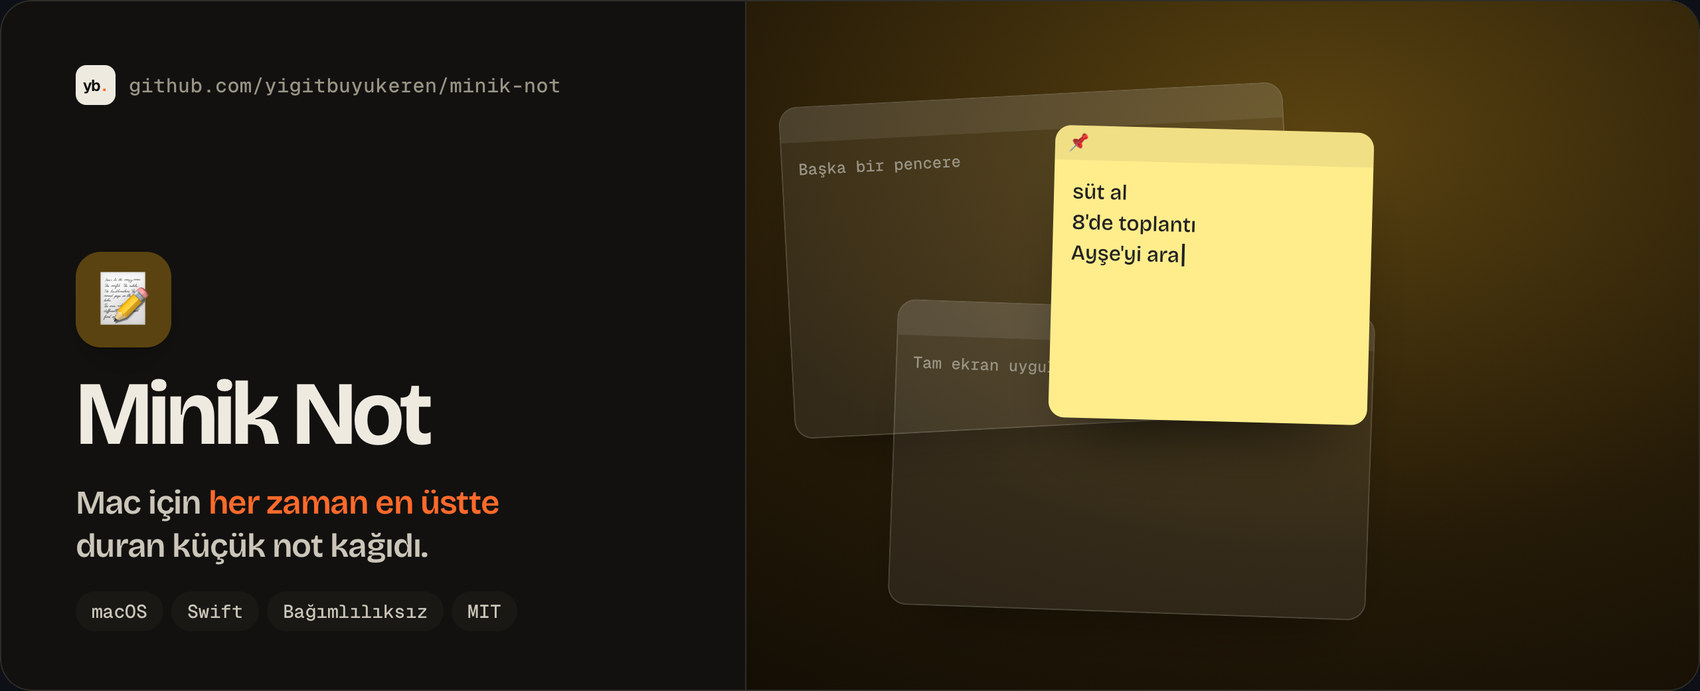
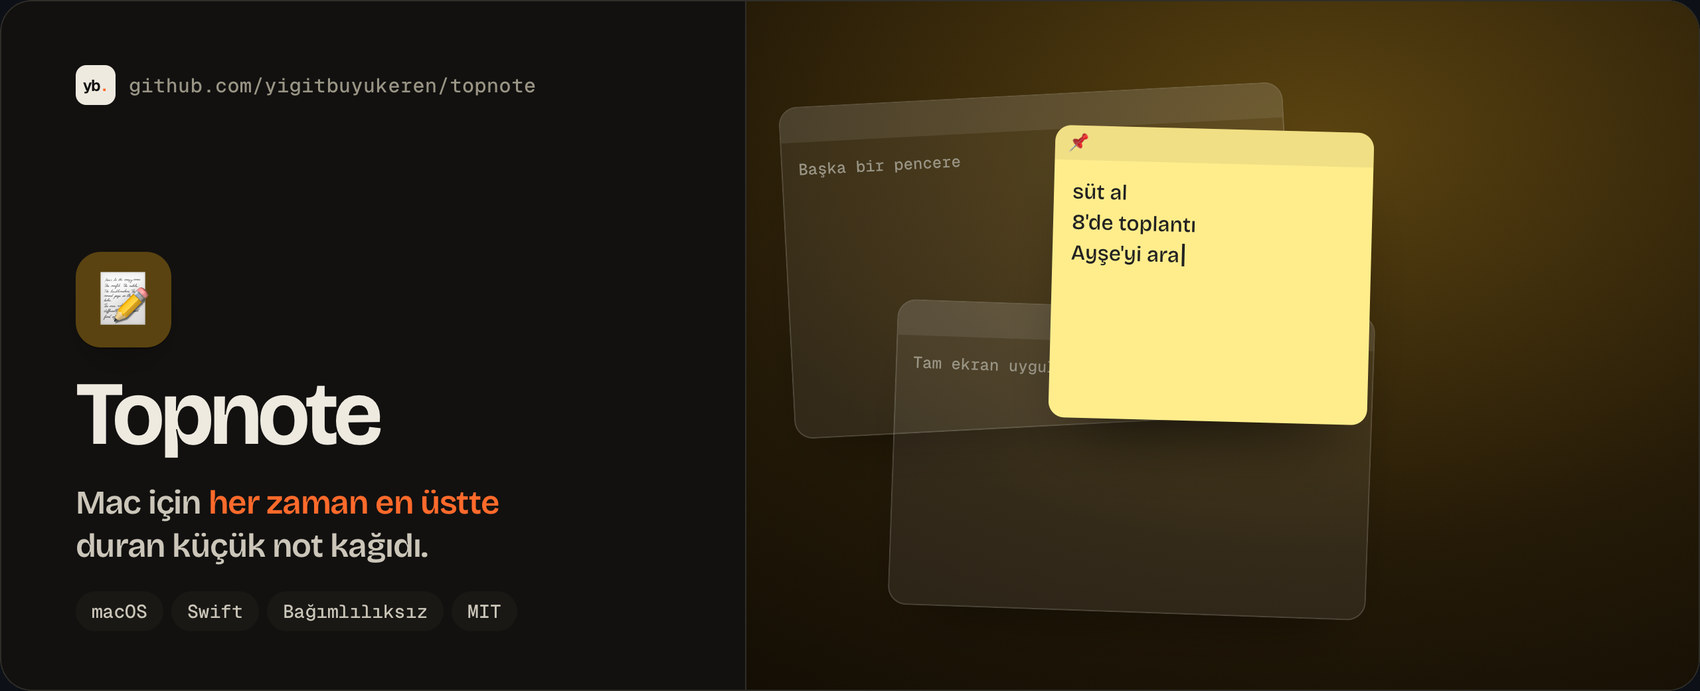
Projeyi Topnote olarak yeniden adlandır

Changed region(s): [[0.0312, 0.547, 0.2494, 0.6686], [0.2494, 0.1216, 0.3429, 0.152]]

diff --git a/Sources/Topnote/AppDelegate.swift b/Sources/Topnote/AppDelegate.swift
@@ -1,7 +1,7 @@
 import AppKit
 import Carbon.HIToolbox
 import Combine
-import MinikNotCore
+import TopnoteCore
 import ServiceManagement
 import SwiftUI
 
@@ -104,7 +104,7 @@ final class AppDelegate: NSObject, NSApplicationDelegate, NSMenuDelegate {
     private func setUpStatusItem() {
         statusItem = NSStatusBar.system.statusItem(withLength: NSStatusItem.squareLength)
         if let button = statusItem.button {
-            button.image = NSImage(systemSymbolName: "note.text", accessibilityDescription: "Minik Not")
+            button.image = NSImage(systemSymbolName: "note.text", accessibilityDescription: "Topnote")
         }
         let menu = NSMenu()
         menu.delegate = self
@@ -162,9 +162,9 @@ final class AppDelegate: NSObject, NSApplicationDelegate, NSMenuDelegate {
         let main = NSMenu()
 
         let app = NSMenu()
-        app.addItem(item("Minik Not Hakkında", #selector(NSApplication.orderFrontStandardAboutPanel(_:)), target: NSApp))
+        app.addItem(item("Topnote Hakkında", #selector(NSApplication.orderFrontStandardAboutPanel(_:)), target: NSApp))
         app.addItem(.separator())
-        app.addItem(item("Minik Not'u Gizle", #selector(NSApplication.hide(_:)), key: "h", target: NSApp))
+        app.addItem(item("Topnote'u Gizle", #selector(NSApplication.hide(_:)), key: "h", target: NSApp))
         app.addItem(item("Çıkış", #selector(NSApplication.terminate(_:)), key: "q", target: NSApp))
         main.addItem(submenuItem(app))
 

diff --git a/Sources/TopnoteCore/NoteStorage.swift b/Sources/TopnoteCore/NoteStorage.swift
@@ -1,6 +1,6 @@
 import Foundation
 
-/// Notu `~/Library/Application Support/Minik Not/not.json` dosyasında tutar.
+/// Notu `~/Library/Application Support/Topnote/not.json` dosyasında tutar.
 public struct NoteStorage {
     public let fileURL: URL
 
@@ -10,7 +10,7 @@ public struct NoteStorage {
 
     public static var defaultURL: URL {
         let base = FileManager.default.urls(for: .applicationSupportDirectory, in: .userDomainMask)[0]
-        return base.appendingPathComponent("Minik Not", isDirectory: true).appendingPathComponent("not.json")
+        return base.appendingPathComponent("Topnote", isDirectory: true).appendingPathComponent("not.json")
     }
 
     /// Dosya yoksa varsayılanı döner. Bozuksa `.bozuk` uzantısıyla kenara alır, böylece metin silinmez.

diff --git a/Package.swift b/Package.swift
@@ -2,11 +2,11 @@
 import PackageDescription
 
 let package = Package(
-    name: "MinikNot",
+    name: "Topnote",
     platforms: [.macOS(.v13)],
     targets: [
-        .target(name: "MinikNotCore"),
-        .executableTarget(name: "MinikNot", dependencies: ["MinikNotCore"]),
-        .testTarget(name: "MinikNotCoreTests", dependencies: ["MinikNotCore"]),
+        .target(name: "TopnoteCore"),
+        .executableTarget(name: "Topnote", dependencies: ["TopnoteCore"]),
+        .testTarget(name: "TopnoteCoreTests", dependencies: ["TopnoteCore"]),
     ]
 )

diff --git a/Sources/Topnote/NoteModel.swift b/Sources/Topnote/NoteModel.swift
@@ -1,6 +1,6 @@
 import AppKit
 import Combine
-import MinikNotCore
+import TopnoteCore
 
 /// Ekrandaki notun tek doğruluk kaynağı. Değişiklikler kısa bir gecikmeyle diske yazılır.
 final class NoteModel: ObservableObject {
@@ -26,7 +26,7 @@ final class NoteModel: ObservableObject {
         do {
             try storage.save(state)
         } catch {
-            NSLog("Minik Not: not kaydedilemedi: \(error.localizedDescription)")
+            NSLog("Topnote: not kaydedilemedi: \(error.localizedDescription)")
         }
     }
 

diff --git a/Sources/Topnote/NotePanel.swift b/Sources/Topnote/NotePanel.swift
@@ -1,5 +1,5 @@
 import AppKit
-import MinikNotCore
+import TopnoteCore
 
 /// Başlıksız, yuvarlak köşeli, her zaman üstte duran küçük pencere.
 final class NotePanel: NSPanel {

diff --git a/Tests/TopnoteCoreTests/NoteStorageTests.swift b/Tests/TopnoteCoreTests/NoteStorageTests.swift
@@ -1,5 +1,5 @@
 import XCTest
-@testable import MinikNotCore
+@testable import TopnoteCore
 
 final class NoteStorageTests: XCTestCase {
     private var dir: URL!

diff --git a/Sources/Topnote/NoteView.swift b/Sources/Topnote/NoteView.swift
@@ -1,4 +1,4 @@
-import MinikNotCore
+import TopnoteCore
 import SwiftUI
 
 extension NoteColor {

diff --git a/README.md b/README.md
@@ -1,11 +1,11 @@
-<a href="https://github.com/yigitbuyukeren/minik-not">
+<a href="https://github.com/yigitbuyukeren/topnote">
   <picture>
     <source media="(prefers-color-scheme: dark)" srcset="docs/banner-dark.jpg">
-    <img src="docs/banner-light.jpg" width="100%" alt="Minik Not: Mac için her zaman en üstte duran küçük not kağıdı. Tam ekran uygulamaların üstünde bile kalır, bağımlılıksız, MIT lisanslı.">
+    <img src="docs/banner-light.jpg" width="100%" alt="Topnote: Mac için her zaman en üstte duran küçük not kağıdı. Tam ekran uygulamaların üstünde bile kalır, bağımlılıksız, MIT lisanslı.">
   </picture>
 </a>
 
-# 📝 Minik Not
+# 📝 Topnote
 
 Mac için küçük bir yapışkan not kağıdı. Ekranın köşesinde **her zaman en üstte** durur: pencere değiştirsen, başka masaüstüne geçsen, hatta bir uygulamayı tam ekran yapsan bile yerinden kıpırdamaz.
 
@@ -28,7 +28,7 @@ macOS 13 veya üstü ve Xcode (ya da Command Line Tools) gerekir.
 scripts/build-app.sh --install
 ```
 
-Bu komut evrensel (Apple Silicon + Intel) `Minik Not.app` üretir ve `~/Applications` içine kopyalar. `--install` olmadan paket `build/` altında kalır.
+Bu komut evrensel (Apple Silicon + Intel) `Topnote.app` üretir ve `~/Applications` içine kopyalar. `--install` olmadan paket `build/` altında kalır.
 
 Uygulama Apple geliştirici hesabıyla imzalanmadığı için ilk açılışta macOS uyarı verirse uygulamaya sağ tıklayıp **Aç**'ı seç.
 
@@ -44,21 +44,21 @@ Uygulama Apple geliştirici hesabıyla imzalanmadığı için ilk açılışta m
 | Taşı / yeniden boyutlandır | başlığı sürükle / kenarları çek |
 | Gizle | `⌘W` ya da ✕ (not silinmez) |
 
-Not şuraya yazılır: `~/Library/Application Support/Minik Not/not.json`.
+Not şuraya yazılır: `~/Library/Application Support/Topnote/not.json`.
 
 ## Geliştirme
 
 ```bash
 swift build          # derle
 swift test           # çekirdek (kayıt/yükleme) testleri
-swift run MinikNot   # doğrudan çalıştır
+swift run Topnote   # doğrudan çalıştır
 scripts/build-app.sh # .app paketi
 ```
 
 | Yol | Ne |
 |---|---|
-| `Sources/MinikNotCore` | Not modeli ve diske kayıt (AppKit'ten bağımsız, test edilir) |
-| `Sources/MinikNot` | Uygulama: panel, SwiftUI görünümü, menüler, global kısayol |
+| `Sources/TopnoteCore` | Not modeli ve diske kayıt (AppKit'ten bağımsız, test edilir) |
+| `Sources/Topnote` | Uygulama: panel, SwiftUI görünümü, menüler, global kısayol |
 | `scripts/build-app.sh` | `.app` paketler ve geçici (ad-hoc) imzalar |
 | `scripts/make-icon.swift` | `Resources/AppIcon.icns` simgesini çizer |
 
